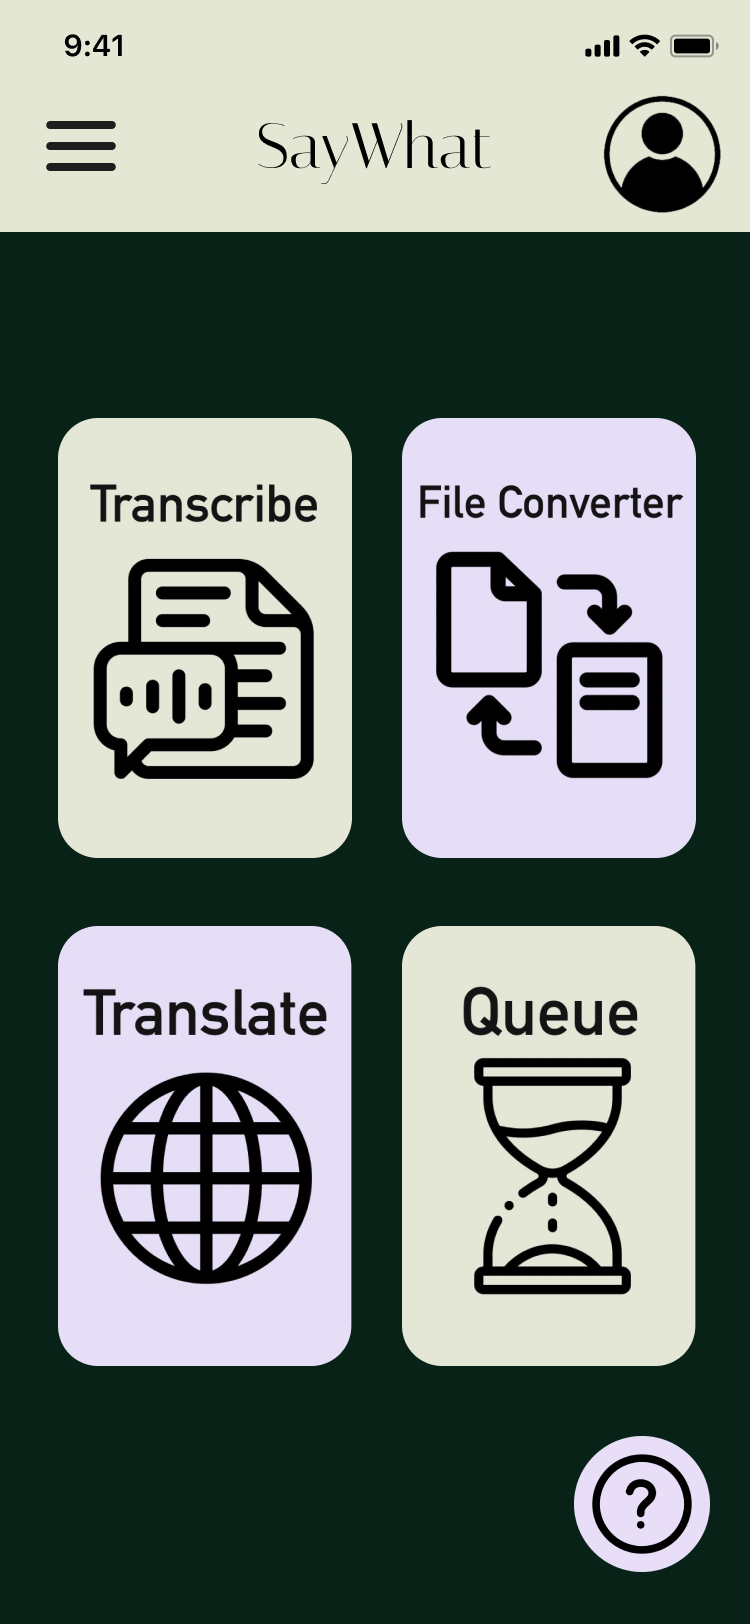
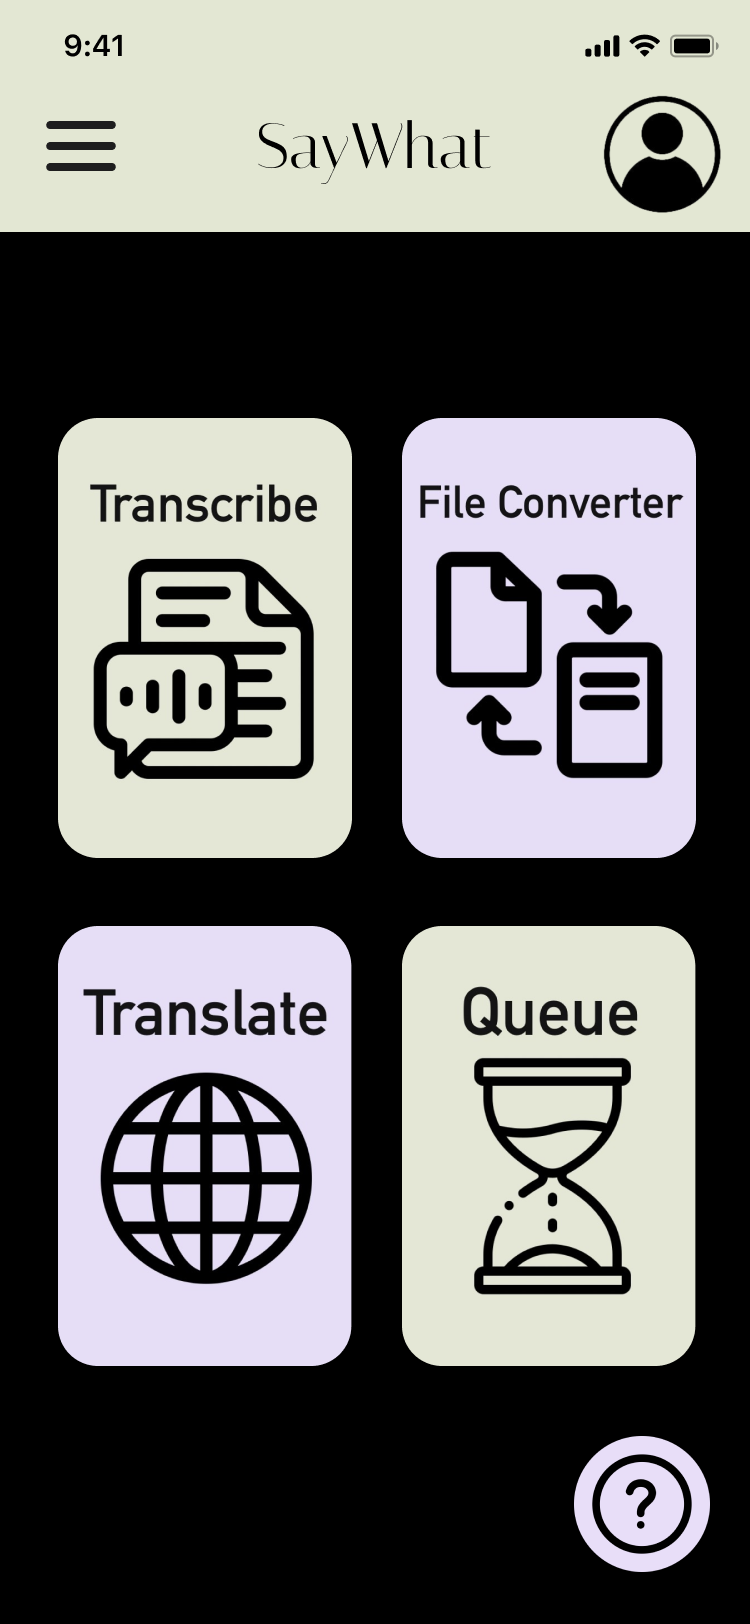
Finished UI

diff --git a/lib/pages/history_page.dart b/lib/pages/history_page.dart
@@ -5,8 +5,15 @@ import 'package:saywhat_app/pages/auth_page.dart';
 import 'package:cloud_firestore/cloud_firestore.dart';
 import 'package:url_launcher/url_launcher.dart';
 
-class HistoryDrawer extends StatelessWidget {
+class HistoryDrawer extends StatefulWidget {
   const HistoryDrawer({super.key});
+
+  @override
+  State<HistoryDrawer> createState() => _HistoryDrawerState();
+}
+
+class _HistoryDrawerState extends State<HistoryDrawer> {
+  String _searchQuery = '';
 
   @override
   Widget build(BuildContext context) {
@@ -36,27 +43,31 @@ class HistoryDrawer extends StatelessWidget {
                 color: Colors.white,
                 borderRadius: BorderRadius.circular(12),
               ),
-              child: const TextField(
-                decoration: InputDecoration(
+              child: TextField(
+                decoration: const InputDecoration(
                   hintText: 'Search...',
                   border: InputBorder.none,
                   prefixIcon: Icon(Icons.search),
                   contentPadding: EdgeInsets.all(12),
                 ),
+                onChanged: (value) {
+                  setState(() {
+                    _searchQuery = value.toLowerCase();
+                  });
+                },
               ),
             ),
           ),
           const SizedBox(height: 16),
           Expanded(
-            child:
-                user != null
-                    ? _buildHistoryList(user.uid)
-                    : const Center(
-                      child: Text(
-                        'Please log in to view history.',
-                        style: TextStyle(color: Colors.white70),
-                      ),
+            child: user != null
+                ? _buildHistoryList(user.uid)
+                : const Center(
+                    child: Text(
+                      'Please log in to view history.',
+                      style: TextStyle(color: Colors.white70),
                     ),
+                  ),
           ),
           const Divider(color: Colors.white24),
           _buildLoginOrLogoutButton(context, user),
@@ -67,12 +78,11 @@ class HistoryDrawer extends StatelessWidget {
   }
 
   Widget _buildHistoryList(String userId) {
-    final historyStream =
-        FirebaseFirestore.instance
-            .collection("users")
-            .doc(userId)
-            .collection("transcriptions")
-            .snapshots();
+    final historyStream = FirebaseFirestore.instance
+        .collection("users")
+        .doc(userId)
+        .collection("transcriptions")
+        .snapshots();
 
     return StreamBuilder<QuerySnapshot>(
       stream: historyStream,
@@ -90,7 +100,10 @@ class HistoryDrawer extends StatelessWidget {
           );
         }
 
-        final docs = snapshot.data!.docs;
+        final docs = snapshot.data!.docs.where((doc) {
+          final id = doc.id.toLowerCase();
+          return id.contains(_searchQuery);
+        }).toList();
 
         return ListView.builder(
           itemCount: docs.length,
@@ -108,15 +121,10 @@ class HistoryDrawer extends StatelessWidget {
               ),
               onTap: () async {
                 if (txtPath != null) {
-                  final storageRef = FirebaseStorage.instance.ref().child(
-                    txtPath,
-                  );
+                  final storageRef = FirebaseStorage.instance.ref().child(txtPath);
                   final url = await storageRef.getDownloadURL();
                   if (await canLaunchUrl(Uri.parse(url))) {
-                    await launchUrl(
-                      Uri.parse(url),
-                      mode: LaunchMode.externalApplication,
-                    );
+                    await launchUrl(Uri.parse(url), mode: LaunchMode.externalApplication);
                   } else {
                     ScaffoldMessenger.of(context).showSnackBar(
                       const SnackBar(content: Text("Cannot launch file")),
@@ -138,7 +146,7 @@ class HistoryDrawer extends StatelessWidget {
         title: const Text('Logout', style: TextStyle(color: Colors.white)),
         onTap: () async {
           await FirebaseAuth.instance.signOut();
-          Navigator.pop(context); // Close the drawer
+          Navigator.pop(context);
         },
       );
     } else {
@@ -146,7 +154,7 @@ class HistoryDrawer extends StatelessWidget {
         leading: const Icon(Icons.login, color: Colors.white),
         title: const Text('Login', style: TextStyle(color: Colors.white)),
         onTap: () {
-          Navigator.pop(context); // Close the drawer
+          Navigator.pop(context);
           Navigator.push(
             context,
             MaterialPageRoute(builder: (context) => const AuthPage()),
@@ -156,3 +164,4 @@ class HistoryDrawer extends StatelessWidget {
     }
   }
 }
+

diff --git a/lib/pages/queue_page.dart b/lib/pages/queue_page.dart
@@ -3,6 +3,7 @@ import 'package:firebase_auth/firebase_auth.dart';
 import 'package:firebase_storage/firebase_storage.dart';
 import 'package:flutter/material.dart';
 import 'package:url_launcher/url_launcher.dart';
+import 'package:saywhat_app/pages/home.dart';
 
 class QueuePage extends StatelessWidget {
   const QueuePage({super.key});
@@ -33,7 +34,26 @@ class QueuePage extends StatelessWidget {
         foregroundColor: Colors.black,
         leading: IconButton(
           icon: const Icon(Icons.home, color: Colors.black),
-          onPressed: () => Navigator.pop(context),
+          onPressed: () {
+            Navigator.pushReplacement(
+              context,
+              PageRouteBuilder(
+                transitionDuration: const Duration(milliseconds: 500),
+                pageBuilder: (context, animation, secondaryAnimation) => const HomePage(),
+                transitionsBuilder: (context, animation, secondaryAnimation, child) {
+                  const begin = Offset(-1.0, 0.0); // Slide from left
+                  const end = Offset.zero;
+                  final tween = Tween(begin: begin, end: end).chain(CurveTween(curve: Curves.easeInOut));
+                  final offsetAnimation = animation.drive(tween);
+
+                  return SlideTransition(
+                    position: offsetAnimation,
+                    child: child,
+                  );
+                },
+              ),
+            );
+          },
         ),
         actions: const [
           Tooltip(
@@ -43,7 +63,7 @@ class QueuePage extends StatelessWidget {
           ),
         ],
       ),
-      backgroundColor: const Color(0xFF08251E),
+      backgroundColor: Colors.black,
       body: StreamBuilder<QuerySnapshot>(
         stream: processQueueStream,
         builder: (context, snapshot) {

diff --git a/lib/pages/home.dart b/lib/pages/home.dart
@@ -19,7 +19,7 @@ class HomePage extends StatelessWidget {
     final User? user = Provider.of<User?>(context);
 
     return Scaffold(
-      backgroundColor: const Color(0xFF0E241C),
+      backgroundColor: Colors.black,
       appBar: AppBar(
         backgroundColor: const Color(0xFFECEFDA),
         elevation: 0,
@@ -38,9 +38,12 @@ class HomePage extends StatelessWidget {
         actions: [
           if (user != null)
             IconButton(
-              icon: const Icon(Icons.notifications, size: 32),
+              icon: const Icon(Icons.help_outline, size: 32, color: Colors.black),
               onPressed: () {
-                print('Notifications tapped!');
+                Navigator.push(
+                  context,
+                  MaterialPageRoute(builder: (_) => const TutorialPage()),
+                );
               },
             ),
           IconButton(
@@ -116,7 +119,8 @@ class HomePage extends StatelessWidget {
   ),
 ),
 
-      floatingActionButton: FloatingActionButton(
+      floatingActionButton: user == null
+    ? FloatingActionButton(
         onPressed: () {
           Navigator.push(
             context,
@@ -134,7 +138,8 @@ class HomePage extends StatelessWidget {
         },
         backgroundColor: const Color(0xFFE8DFF9),
         child: const Icon(Icons.help_outline, color: Colors.black),
-      ),
+      )
+    : null,
     );
   }
 

diff --git a/lib/pages/Tutorial_page.dart b/lib/pages/Tutorial_page.dart
@@ -235,7 +235,27 @@ class _TutorialPageState extends State<TutorialPage> {
             ],
           ),
 
-          //tutorial_page.dart => replace positioned 
+          //click to change page
+          GestureDetector(
+            behavior: HitTestBehavior.opaque,
+            onTapUp: (details) {
+              final screenWidth = MediaQuery.of(context).size.width;
+              final dx = details.localPosition.dx;
+
+              if (dx > screenWidth / 2 && _currentPage < 5) {
+                _controller.nextPage(
+                  duration: const Duration(milliseconds: 300),
+                  curve: Curves.easeInOut,
+                );
+              } else if (dx <= screenWidth / 2 && _currentPage > 0) {
+                _controller.previousPage(
+                  duration: const Duration(milliseconds: 300),
+                  curve: Curves.easeInOut,
+                );
+              }
+            },
+          ),
+
 
           Positioned(
             bottom: 20,

diff --git a/lib/pages/transcribe_page.dart b/lib/pages/transcribe_page.dart
@@ -126,7 +126,7 @@ class _TranscribePageState extends State<TranscribePage> {
   @override
   Widget build(BuildContext context) {
     return Scaffold(
-      backgroundColor: const Color(0xFF092118),
+      backgroundColor: Colors.black,
       appBar: AppBar(
         backgroundColor: const Color(0xFFECEFDA),
         leading: IconButton(
@@ -140,6 +140,16 @@ class _TranscribePageState extends State<TranscribePage> {
           ),
         ),
         elevation: 0,
+        actions: [
+        Tooltip(
+          message: 'The converter function helps you convert MP4 or WAV files into MP3 format',
+          child: IconButton(
+            icon: const Icon(Icons.info_outline),
+            color: Colors.black,
+            onPressed: () {},
+          ),
+        ),
+        ],
       ),
       body: Padding(
         padding: const EdgeInsets.all(24),

diff --git a/functions/src/index.ts b/functions/src/index.ts
@@ -282,8 +282,14 @@ export const transcribeWhisperOnUpload = onObjectFinalized(
         const summaryChat = await openai.chat.completions.create({
           model: 'gpt-3.5-turbo',
           messages: [
-            { role: 'system', content: `Summarize this ${toLanguage}.` },
-            { role: 'user', content: translatedText },
+            {
+              role: 'system',
+              content: `You are a helpful assistant that summarizes texts into concise, well-organized summaries. Use clear headings and subheadings where appropriate.`
+            },
+            {
+              role: 'user',
+              content: `Please summarize the following text in ${toLanguage}:\n\n${translatedText}`
+            }
           ],
         });
 

diff --git a/lib/pages/file_converter_page.dart b/lib/pages/file_converter_page.dart
@@ -136,7 +136,7 @@ class _FileConverterPageState extends State<FileConverterPage> {
             : (_selectedFile?.path.split('/').last ?? 'No file selected');
 
     return Scaffold(
-      backgroundColor: const Color(0xFF0E241C),
+      backgroundColor: Colors.black,
       appBar: AppBar(
         backgroundColor: const Color(0xFFECEFDA),
         elevation: 0,

diff --git a/lib/pages/translate_page.dart b/lib/pages/translate_page.dart
@@ -52,7 +52,7 @@ class _TranslatePageState extends State<TranslatePage> {
 
   @override
   Widget build(BuildContext context) {
-    final Color darkGreen = const Color(0xFF06261C);
+    final Color darkGreen = Colors.black;
     final Color lightPurple = const Color(0xFFE7DDF7);
 
     return Scaffold(
